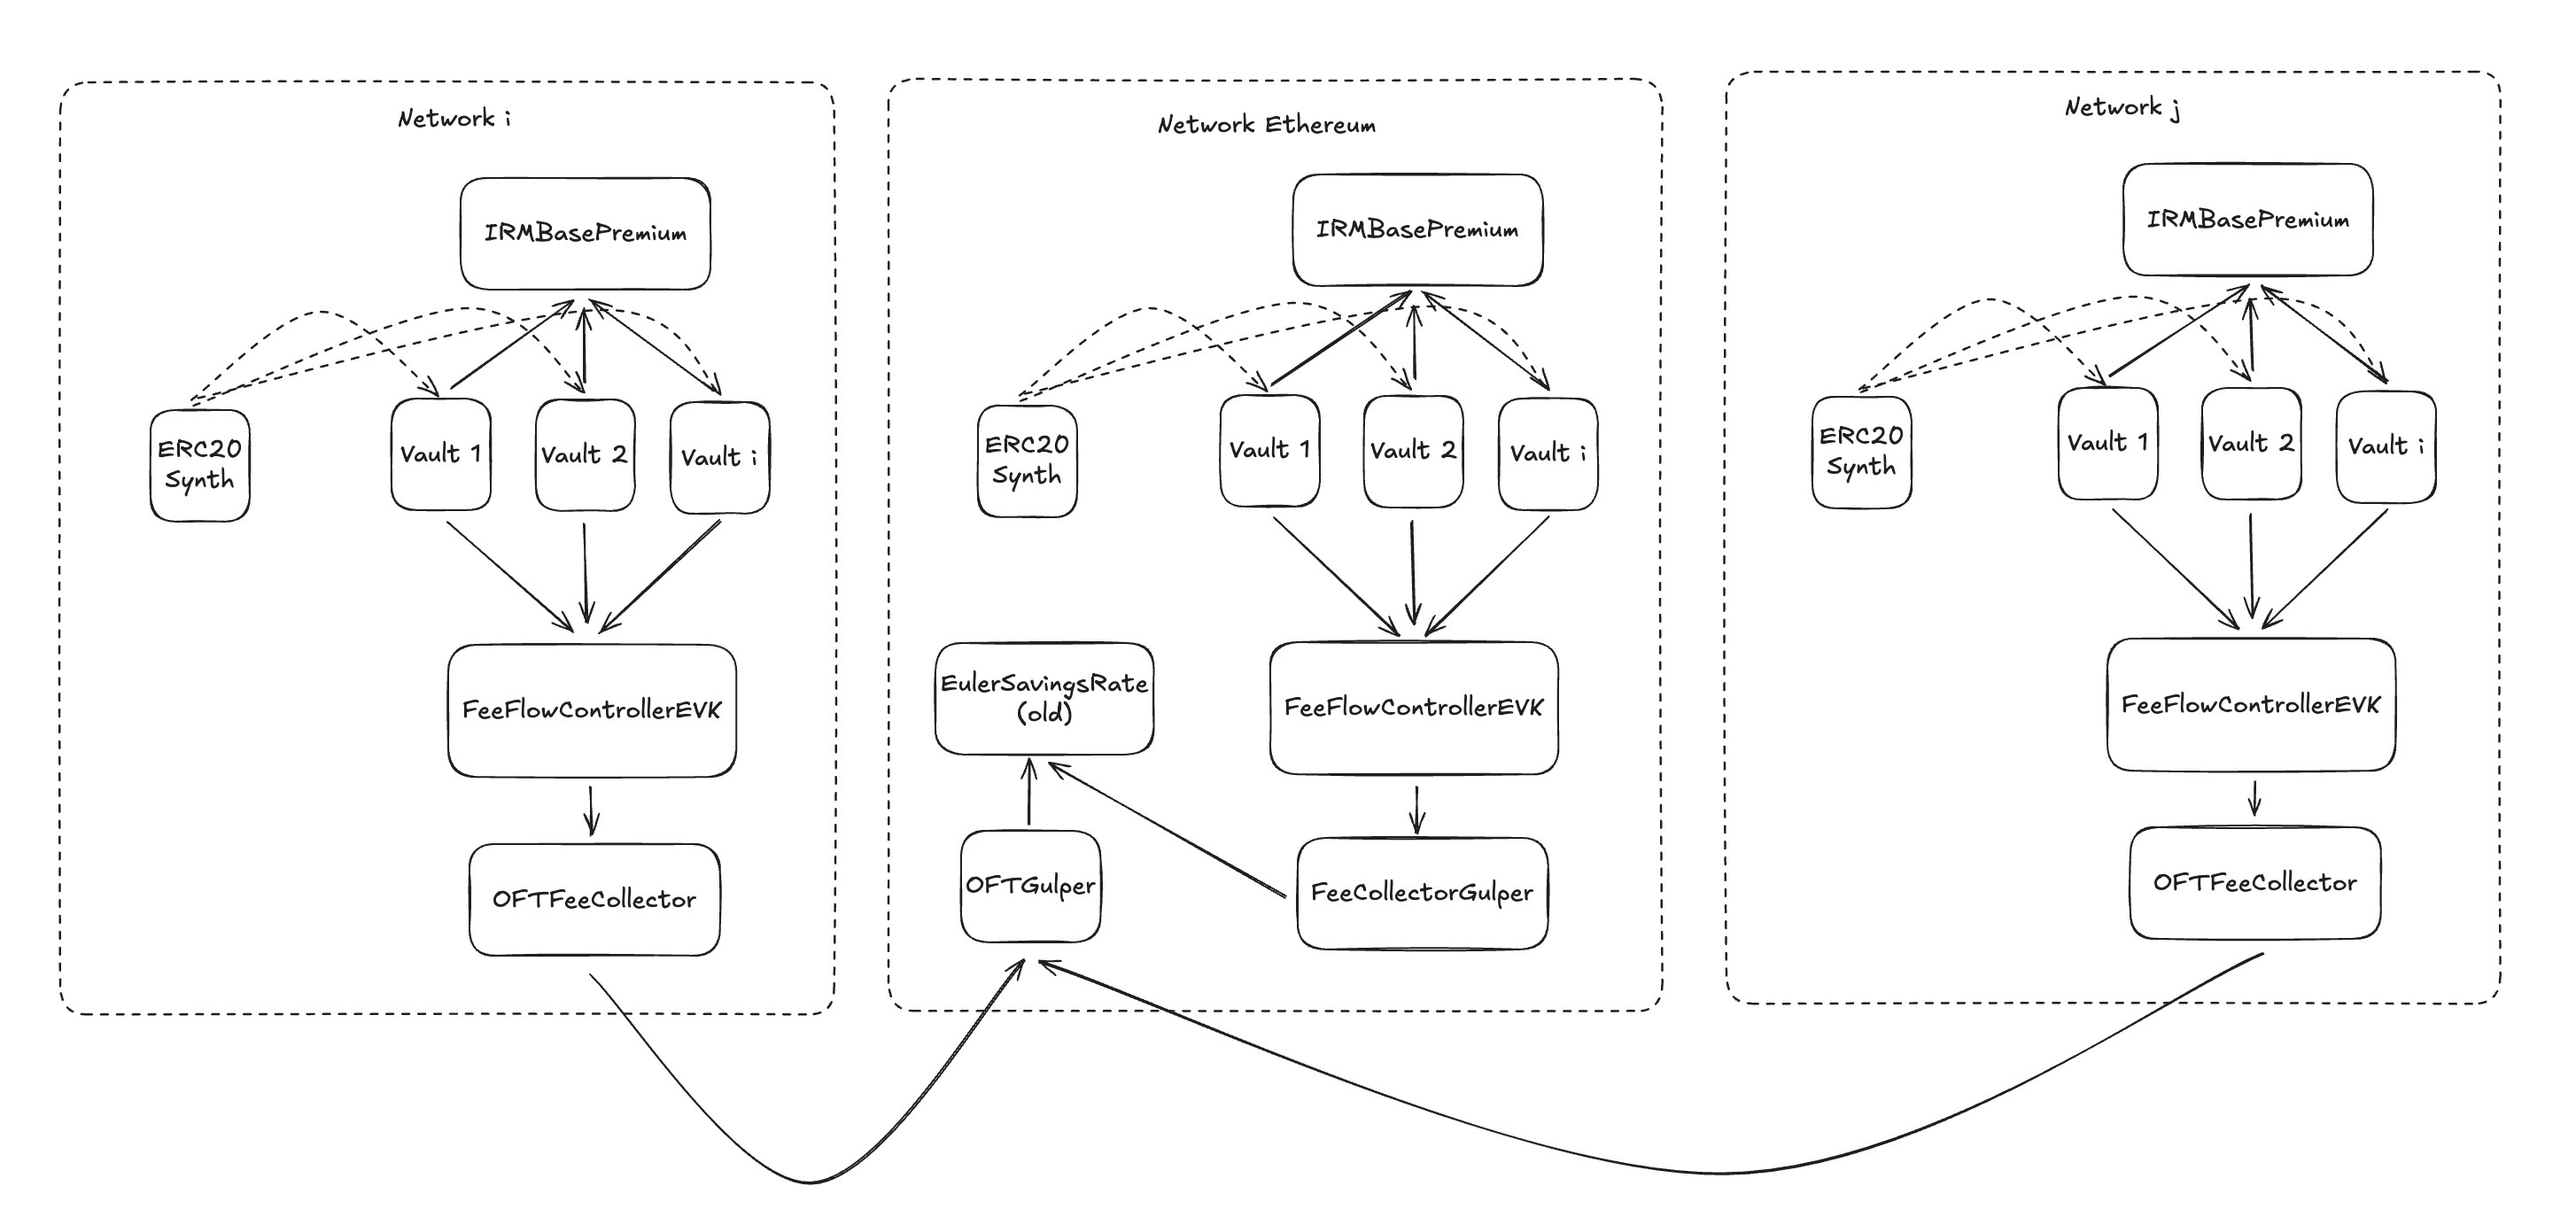
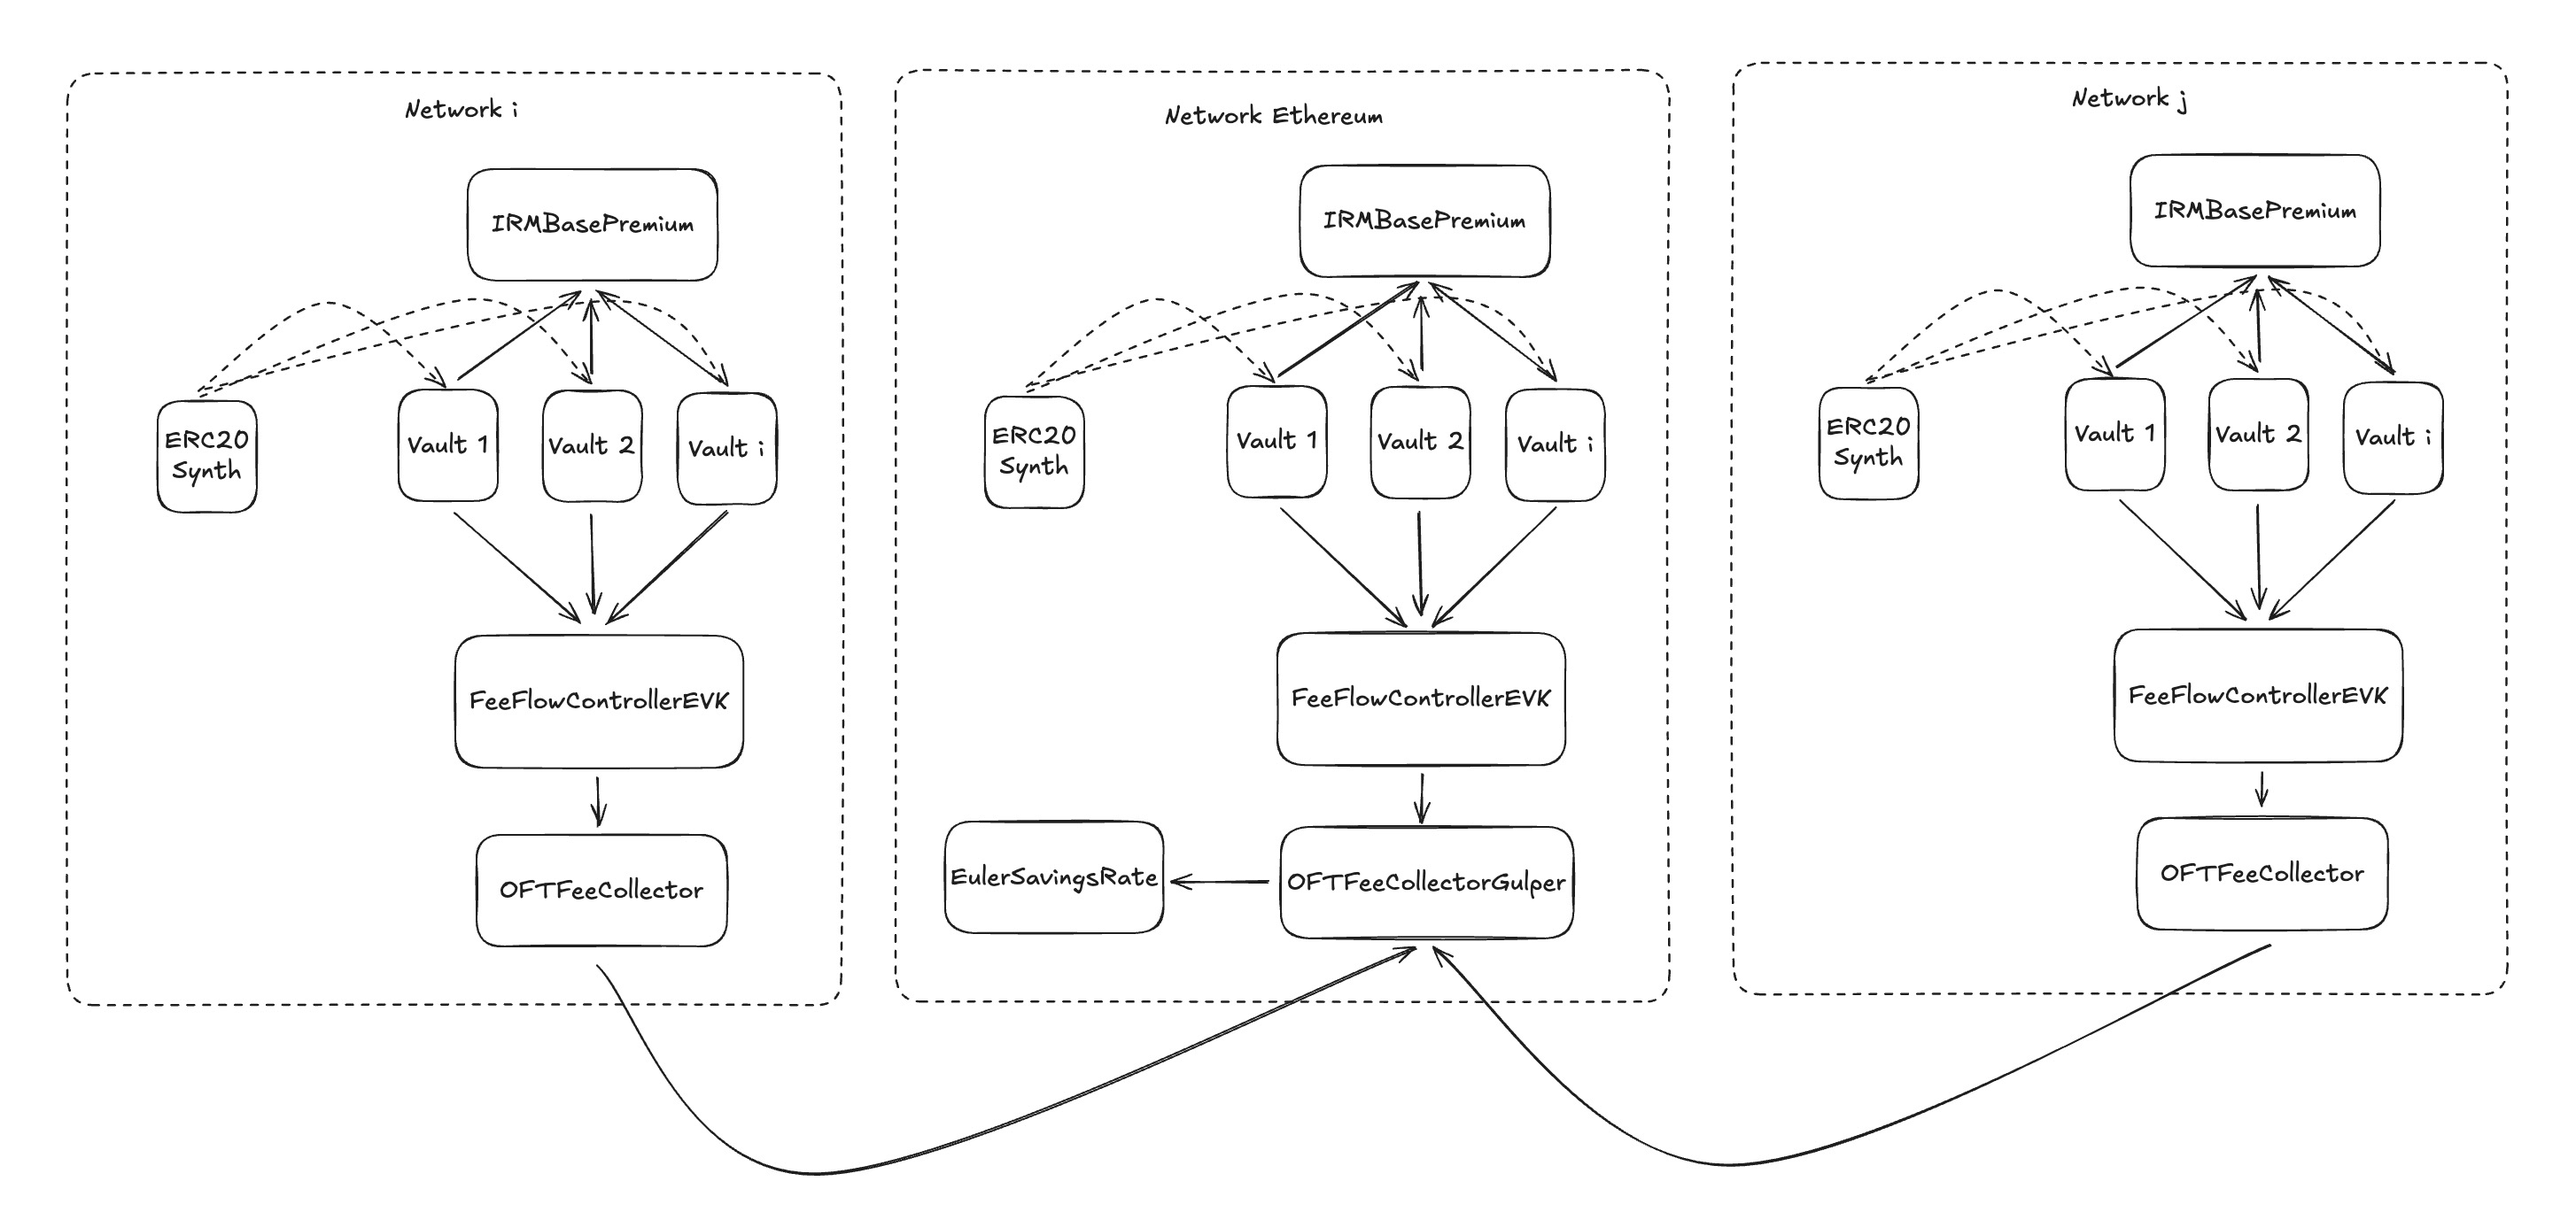
feat: combine FeeCollectorGulper and OFTGulper functionality in one contract; remove OFTGulper

diff --git a/docs/synths.md b/docs/synths.md
@@ -4,15 +4,14 @@ This document describes the new contracts introduced to support synthetic asset 
 
 ## Overview
 
-The synthetic asset system consists of seven main contracts that work together to enable cross-chain synthetic asset creation and automated fee collection/distribution:
+The synthetic asset system consists of six main contracts that work together to enable cross-chain synthetic asset creation and automated fee collection/distribution:
 
 1. **ERC20Synth** - A modified synthetic token contract for LayerZero OFT compatibility
 2. **FeeFlowControllerEVK** - An enhanced fee auction controller for EVK vaults with automated fee conversion
 3. **FeeCollectorUtil** - Base contract for fee collection functionality
-4. **FeeCollectorGulper** - Local fee collection and distribution via EulerSavingsRate
-5. **OFTFeeCollector** - Cross-chain fee collection orchestrator using LayerZero
-6. **OFTGulper** - Cross-chain fee receiver and distributor via LayerZero composer
-7. **IRMBasePremium** - Generic interest rate model with base rate and premium rate components
+4. **OFTFeeCollector** - Cross-chain fee collection orchestrator using LayerZero
+5. **OFTFeeCollectorGulper** - Unified fee collection and distribution contract with both local and cross-chain capabilities
+6. **IRMBasePremium** - Generic interest rate model with base rate and premium rate components
 
 This system builds upon the original synthetic asset architecture described in the Euler Vault Kit whitepaper, which includes:
 - **ESynth** - The original synthetic token contract
@@ -73,16 +72,6 @@ This system builds upon the original synthetic asset architecture described in t
 - `MAINTAINER_ROLE`: Can add/remove vaults from the collection list
 - `COLLECTOR_ROLE`: Can execute the fee collection process
 
-### FeeCollectorGulper
-
-**Purpose**: Collects fees from multiple vaults and deposits them into an EulerSavingsRate contract with automated interest smearing.
-
-**Key Features**:
-- **Inherits from FeeCollectorUtil**: Uses base fee collection functionality
-- **EulerSavingsRate Integration**: Deposits collected fees into ESR contract
-- **Interest Smearing**: Automatically calls `gulp()` to distribute interest over 2-week periods
-- **Local Distribution**: Handles fee distribution without cross-chain transfers
-
 ### OFTFeeCollector
 
 **Purpose**: Collects fees from multiple vaults and sends them cross-chain via LayerZero OFT adapter.
@@ -93,16 +82,18 @@ This system builds upon the original synthetic asset architecture described in t
 - **OFT Validation**: Ensures OFT adapter token matches the fee token
 - **Composed Messages**: Support for composed messages for automated interest smearing
 
-### OFTGulper
+### OFTFeeCollectorGulper
 
-**Purpose**: Receives fee tokens cross-chain and deposits them into an EulerSavingsRate vault with automated interest smearing.
+**Purpose**: Unified contract that combines local fee collection and cross-chain fee reception capabilities, depositing collected fees into an EulerSavingsRate contract with automated interest smearing.
 
 **Key Features**:
+- **Inherits from FeeCollectorUtil**: Uses base fee collection functionality for local operations
 - **LayerZero Integration**: Implements `ILayerZeroComposer` for cross-chain message handling
-- **Automated Deposits**: Deposits received tokens into EulerSavingsRate vault
-- **Interest Smearing**: Calls `gulp()` to distribute interest over a 2-week period
-- **Simple Ownership**: Uses `Ownable` for straightforward administration
-- **Public Execution**: Anyone can trigger the deposit and gulp process
+- **Dual Operation Modes**: 
+  - Local mode: Collects fees from multiple vaults and deposits them into ESR
+  - Cross-chain mode: Receives fee tokens from remote chains and deposits them into ESR
+- **EulerSavingsRate Integration**: Deposits collected fees into ESR contract
+- **Interest Smearing**: Automatically calls `gulp()` to distribute interest over 2-week periods
 
 ### IRMBasePremium
 
@@ -139,15 +130,17 @@ The vaults are configured with 100% interest fees, meaning all interest generate
 
 ### Fee Flow Orchestration
 
-The `FeeFlowControllerEVK` operates on each network, periodically conducting Dutch auctions to sell the accumulated fees. Unlike the original system, this controller automatically calls `convertFees()` on all vaults before transferring assets, ensuring fees are properly converted to transferable tokens. The controller will be configured with the `OFTFeeCollector` as a hook target to automate the fee collection process, seamlessly integrating with the broader fee distribution system.
+The `FeeFlowControllerEVK` operates on each network, periodically conducting Dutch auctions to sell the accumulated fees. Unlike the original system, this controller automatically calls `convertFees()` on all vaults before transferring assets, ensuring fees are properly converted to transferable tokens. The controller will be configured with either the `OFTFeeCollector` (for cross-chain distribution) or `OFTFeeCollectorGulper` (for local distribution) as a hook target to automate the fee collection process, seamlessly integrating with the broader fee distribution system.
 
 ### Cross-Chain Fee Collection
 
-Two complementary systems handle fee collection and distribution:
+The fee collection system supports both local and cross-chain distribution through unified contracts:
+
+**Local Distribution**: `OFTFeeCollectorGulper` contract can operate locally on Ethereum, collecting fees from multiple vaults and depositing them directly into local ESR instances with automated interest smearing.
 
 **Cross-Chain Collection**: `OFTFeeCollector` contracts on each network collect fees from multiple vaults and send them cross-chain to Ethereum using LayerZero OFT adapters. These collectors inherit from `FeeCollectorUtil`, providing consistent fee collection logic while supporting composed messages for automated interest smearing.
 
-**Cross-Chain Reception**: `OFTGulper` contracts on Ethereum receive the cross-chain fees and automatically deposit them into the canonical ESR instance. The gulper implements LayerZero's composer interface, allowing it to receive fees and immediately trigger the `gulp()` function to distribute interest over the two-week smearing period.
+**Cross-Chain Reception**: `OFTFeeCollectorGulper` contract on Ethereum receives the cross-chain fees and automatically deposits them into the canonical ESR instance. The contract implements LayerZero's composer interface, allowing it to receive fees and immediately trigger the `gulp()` function to distribute interest over the two-week smearing period.
 
 ### Peg Stability Through EulerSwap
 
